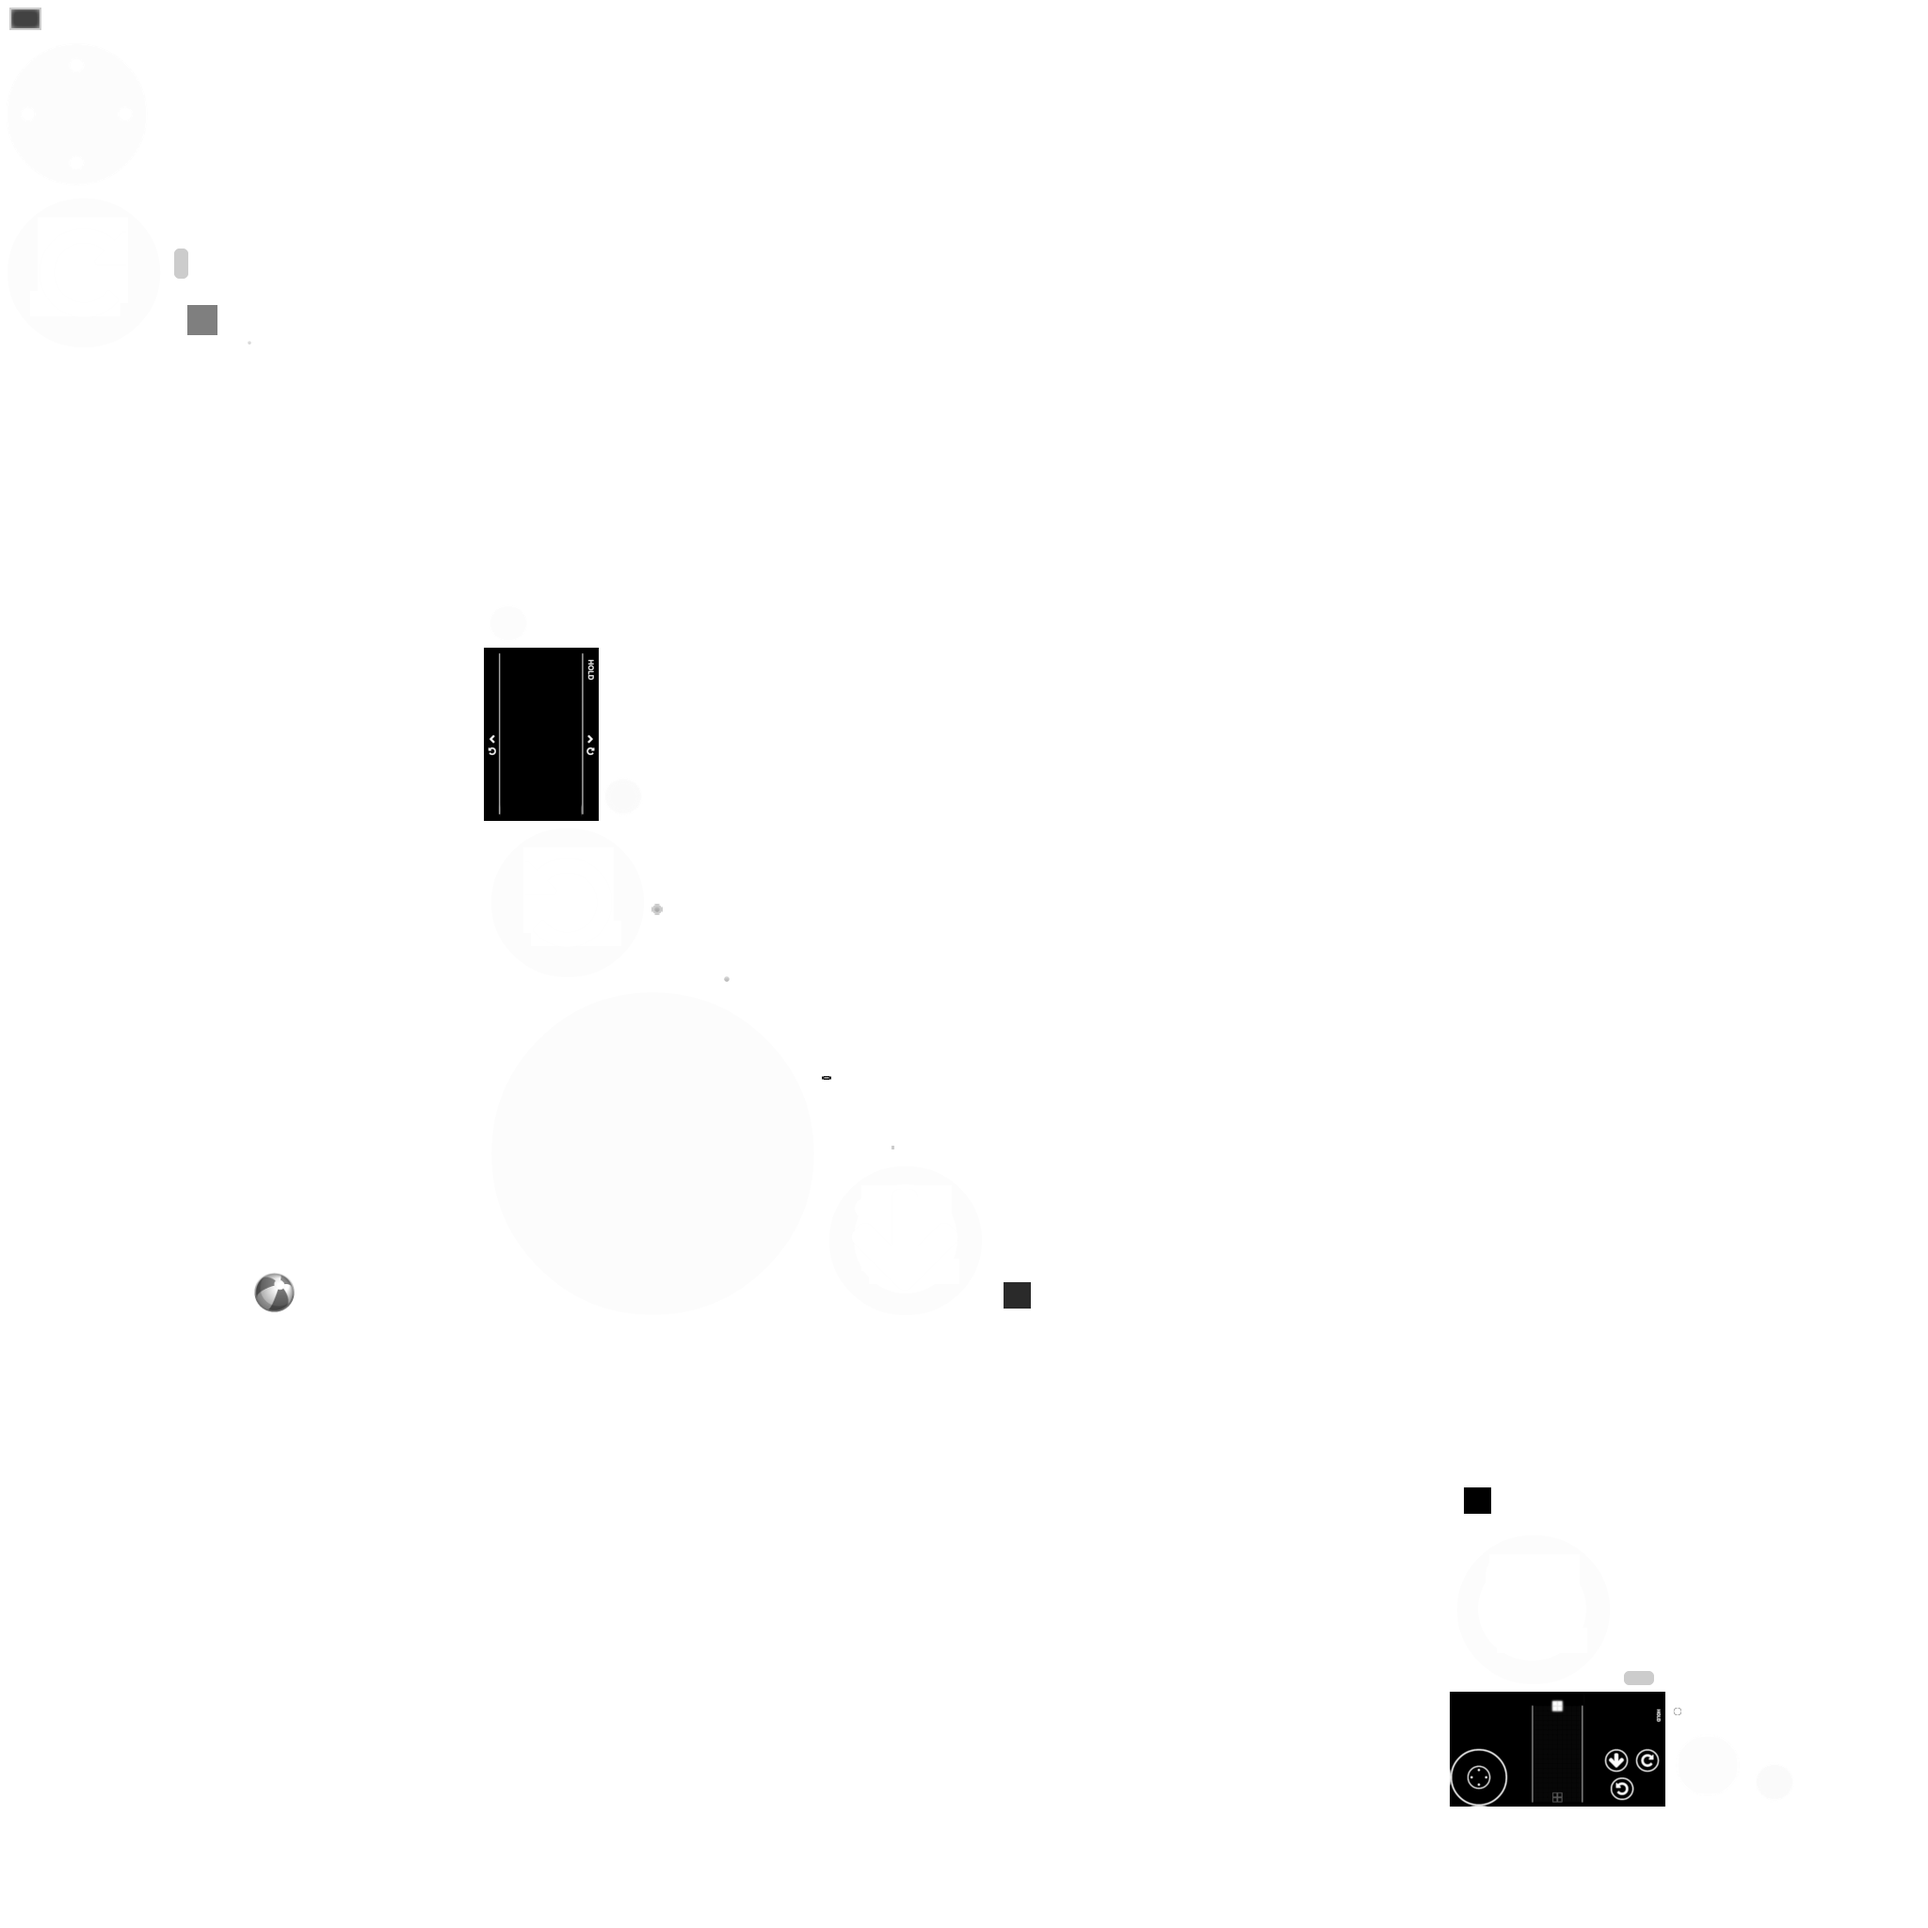
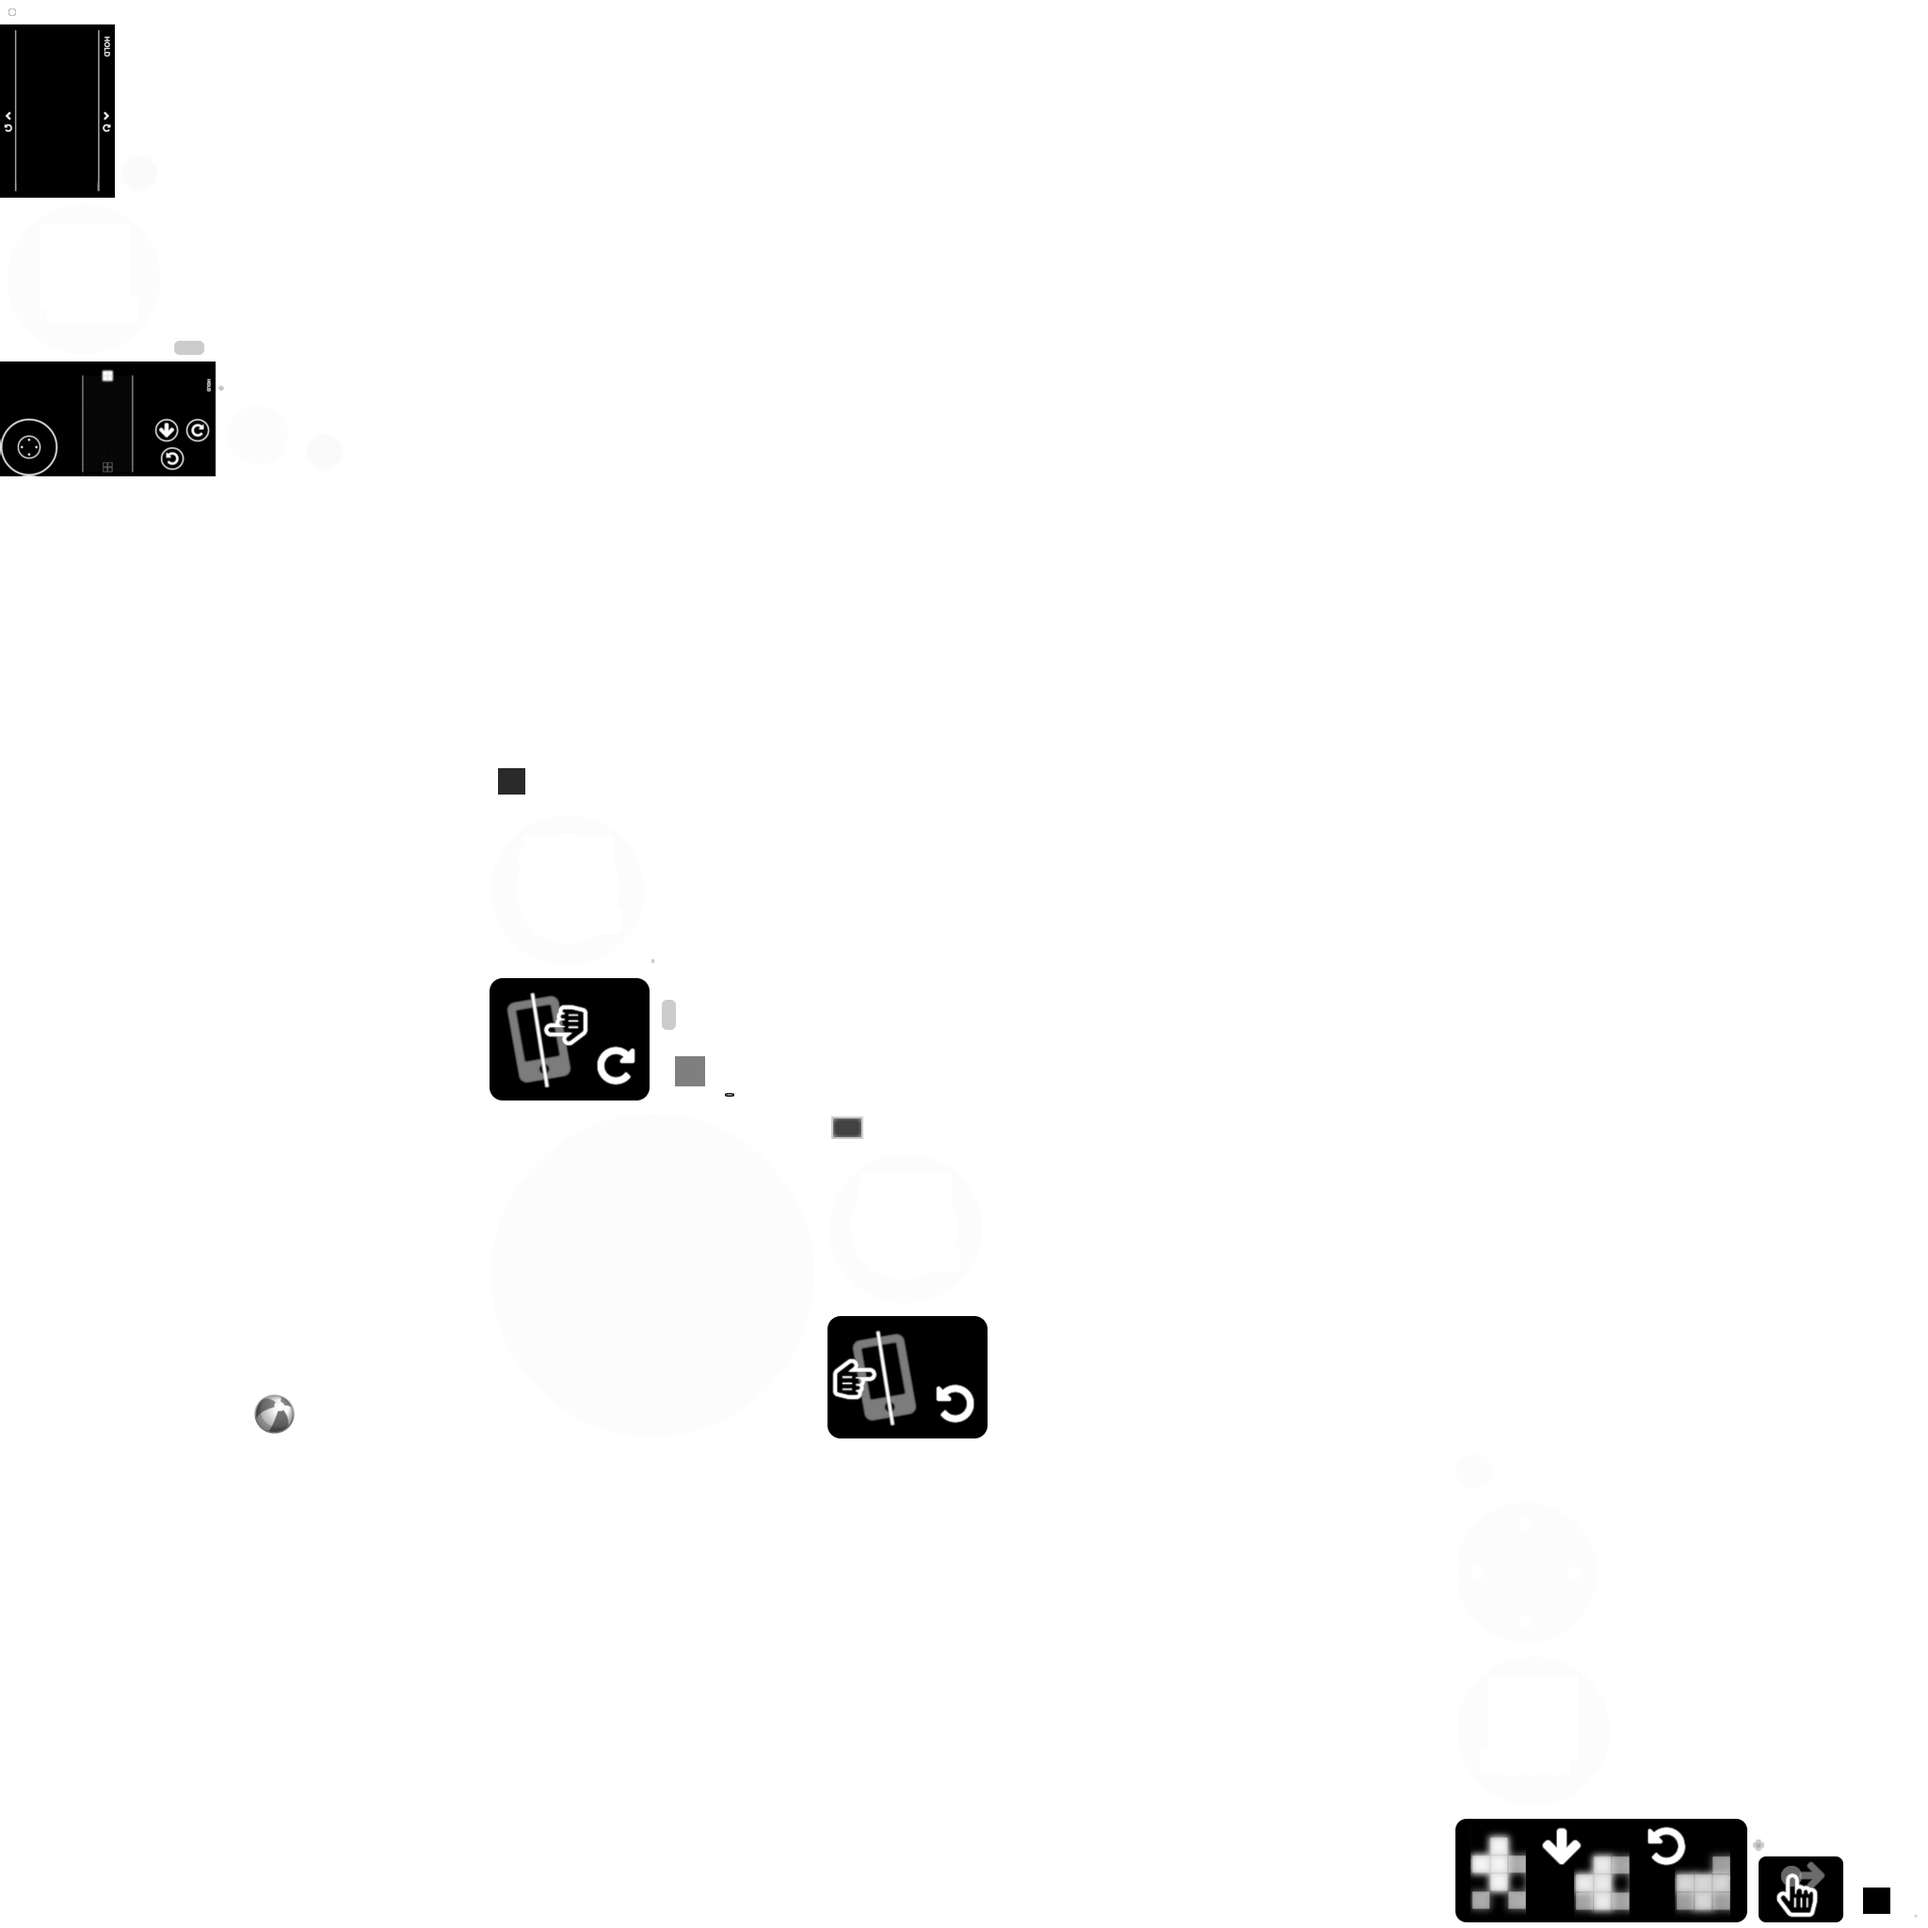
Missionen: Bilder zu den Erklärtexten hinzugefügt

diff --git a/core/src/de/golfgl/lightblocks/scene2d/OverlayMessage.java b/core/src/de/golfgl/lightblocks/scene2d/OverlayMessage.java
@@ -2,7 +2,9 @@ package de.golfgl.lightblocks.scene2d;
 
 import com.badlogic.gdx.scenes.scene2d.Action;
 import com.badlogic.gdx.scenes.scene2d.Stage;
+import com.badlogic.gdx.scenes.scene2d.ui.Cell;
 import com.badlogic.gdx.scenes.scene2d.ui.Dialog;
+import com.badlogic.gdx.scenes.scene2d.ui.Image;
 import com.badlogic.gdx.scenes.scene2d.ui.Label;
 import com.badlogic.gdx.scenes.scene2d.ui.Skin;
 import com.badlogic.gdx.scenes.scene2d.ui.Table;
@@ -19,6 +21,7 @@ import de.golfgl.lightblocks.LightBlocksGame;
 public class OverlayMessage extends Dialog {
 
     private final Label messageLabel;
+    private final Cell messageImageCell;
 
     public OverlayMessage(Skin skin, float width) {
         super("", skin, "overlay");
@@ -30,7 +33,9 @@ public class OverlayMessage extends Dialog {
         messageLabel.setAlignment(Align.center);
 
         final Table contentTable = getContentTable();
-        contentTable.defaults().pad(15);
+        contentTable.pad(15);
+        messageImageCell = contentTable.add();
+        contentTable.row();
         contentTable.add(messageLabel).width(width);
 
     }
@@ -40,6 +45,17 @@ public class OverlayMessage extends Dialog {
     }
 
     public void showText(Stage stage, String message) {
+        if (message.startsWith("_IMG_")) {
+            message = message.substring(5);
+
+            int firstUnderscore = message.indexOf('_');
+            String imageName = message.substring(0, firstUnderscore);
+            message = message.substring(firstUnderscore + 1);
+
+            messageImageCell.setActor(new Image(getSkin(), imageName));
+        } else
+            messageImageCell.clearActor();
+
         messageLabel.setText(message);
         show(stage);
     }
